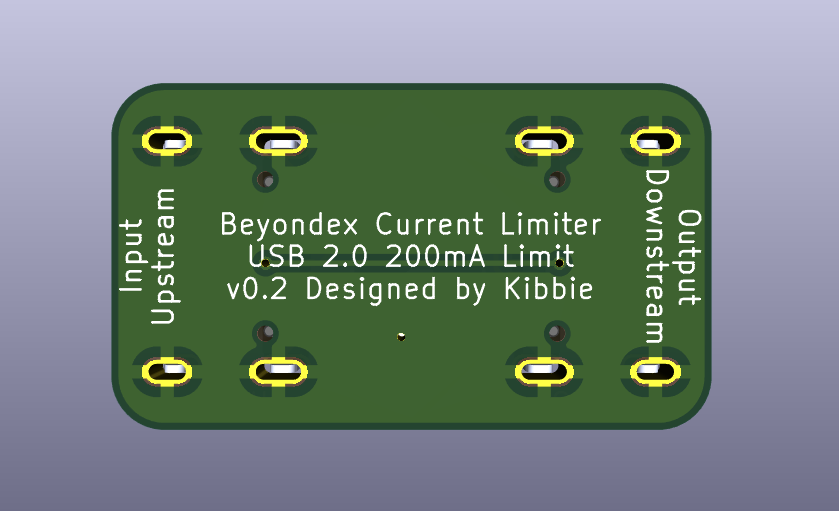
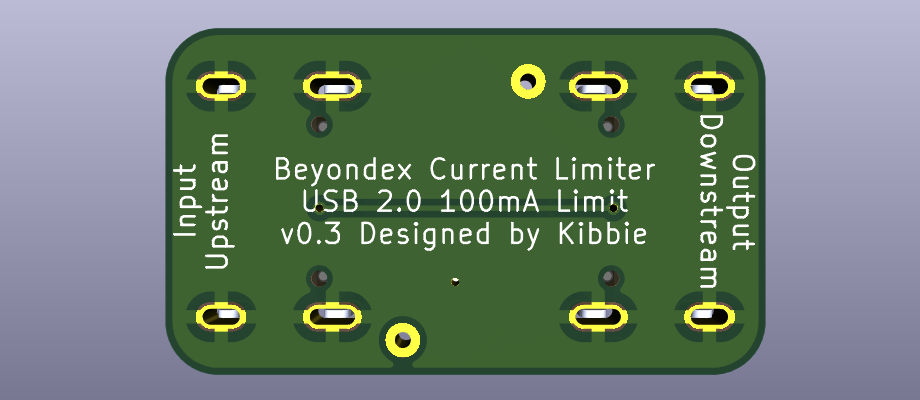
Update readme for 2 resistor config

diff --git a/README.md b/README.md
@@ -2,10 +2,13 @@
 
 This is a simple USB 2.0 Type C current limiter built around the [MIC2544-1YM](resources/mic2544.pdf) current limiting IC. The default current limit is set at 200mA, but the resistors can be swapped out according to the data sheet for any limit bwteen 100mA to 1.5A.
 
-Resistor configurations I've used:
+Resistor configurations:
 
-* 150 + 330 + 680 = 198mA limit
-* 2k + 150 +150 = 100mA limit
+* 1k + 150 = 200mA limit
+* 1.4k + 133 = 150mA limit
+* 2k + 300 = 100mA limit
+
+The design also has 2 through holes so that it can be hand-modded to a different limit if necessary.
 
 The left port is for the end device and the right port is to connect upstream.
 
@@ -18,10 +21,10 @@ The back contains the specs and additional input/output labels.
 ## How to Order
 
 1. Go to the [latest release](https://github.com/KibbieKatt/BeyondexLimiter/releases)
-2. Download:
-    * `BeyondexLimiter.zip` - not the Source code!
-    * `bom.csv`
-    * `positions.csv`
+2. Download (choose 100mA, 150mA, or 200mA):
+    * `BeyondexLimiter_200mA.zip` - not the Source code!
+    * `BeyondexLimiter_200mA_bom.csv`
+    * `BeyondexLimiter_positions.csv`
 3. Upload the zip file to JLCPCB's quote page.
 4. Verify that board image is shown and size is auto populated.
     * If it doesn't show the PCB image or size after uploading completes, try making an account, uploading the file, and checking Projects > Quotes if it still doesn't show up.
